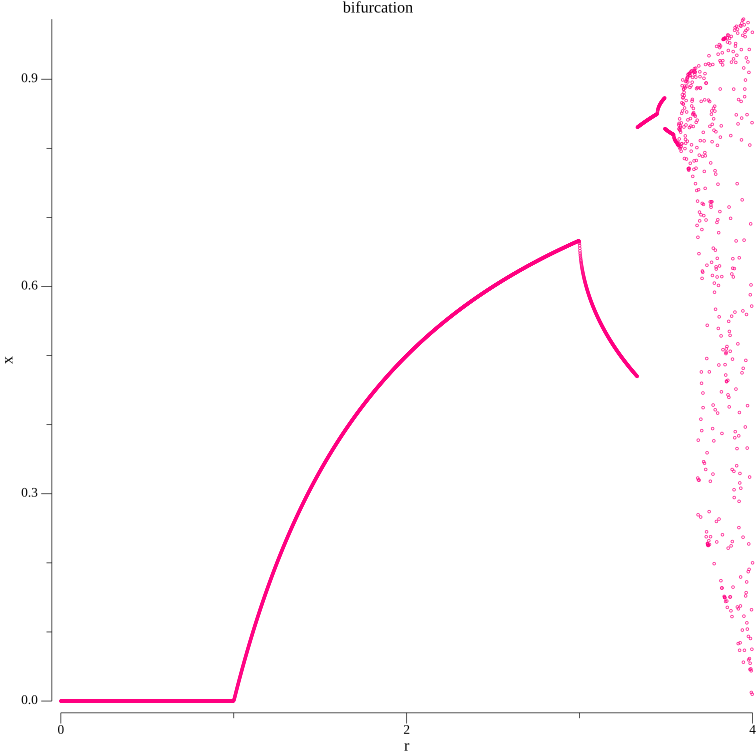
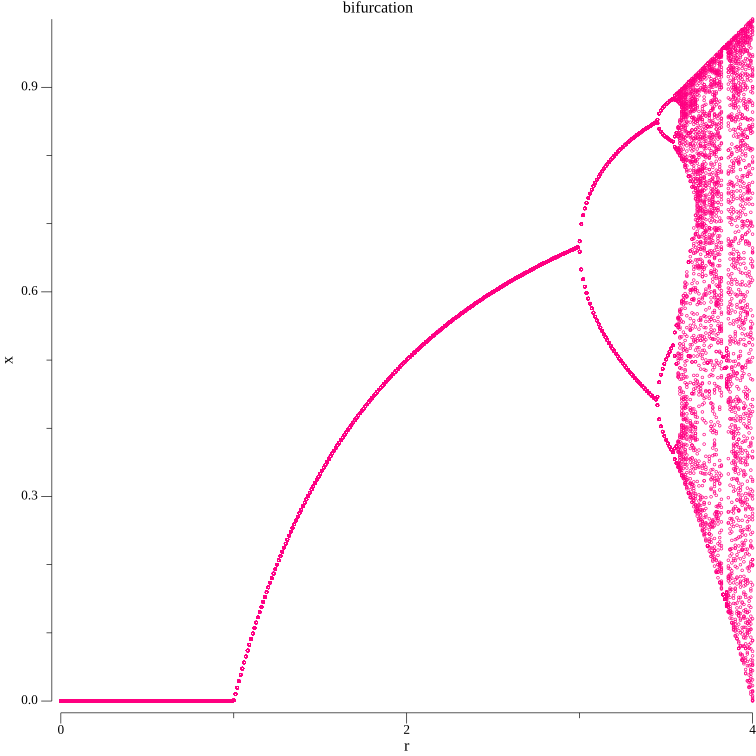
update

diff --git a/main.go b/main.go
@@ -15,12 +15,15 @@ func main() {
 	log.Printf("Exit with err: %v", err)
 	os.Exit(1)
 }
-
 func run() error {
+	return bifurcation()
+}
+
+func bifurcation() error {
 
 	points := []plotter.XY{}
 
-	res := 1000
+	res := 100
 
 	f := func(x complex128, r complex128) complex128 {
 		return r * x * (1 - x)
@@ -33,9 +36,11 @@ func run() error {
 
 		for n := 0; n < 1000; n++ {
 			x = f(x, r)
-		}
 
-		points = append(points, plotter.XY{X: real(r), Y: real(x)})
+			if n > 900 {
+				points = append(points, plotter.XY{X: real(r), Y: real(x)})
+			}
+		}
 	}
 
 	return p(points, "bifurcation", "r", "x")
